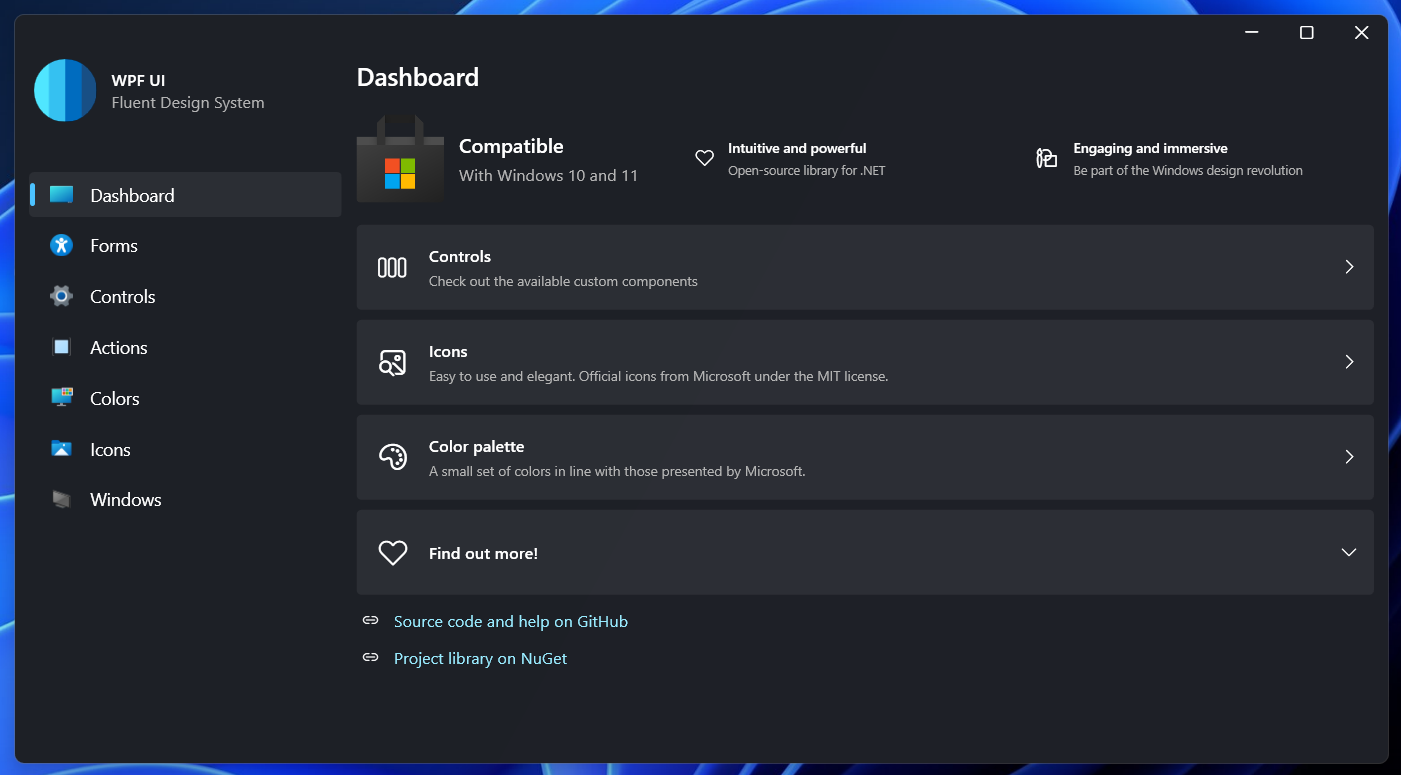
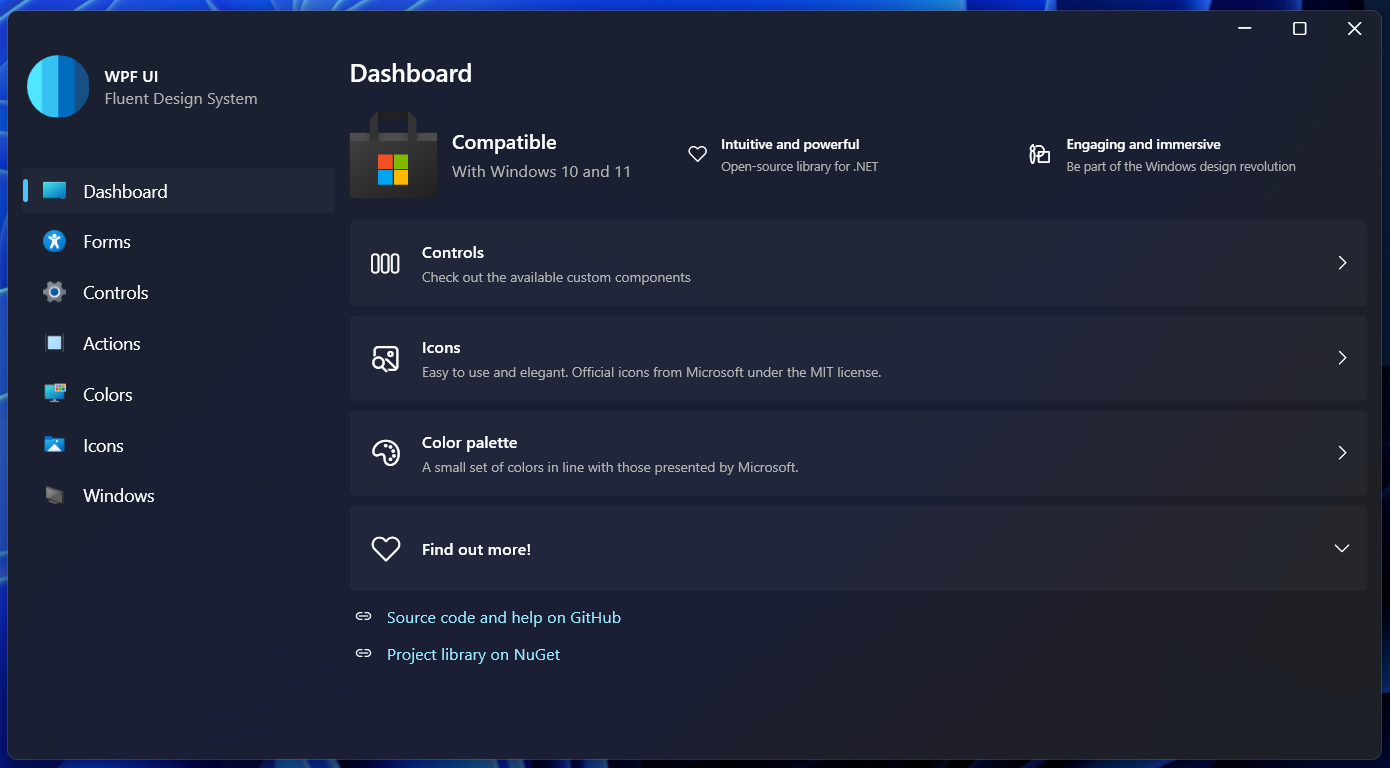
Update screenshots [-ci skip]

diff --git a/WPFUI/Styles/Controls/Window.xaml b/WPFUI/Styles/Controls/Window.xaml
@@ -11,6 +11,8 @@
         <Setter Property="Width" Value="1100" />
         <Setter Property="MinWidth" Value="900" />
         <Setter Property="BorderThickness" Value="0" />
+        <Setter Property="Margin" Value="0" />
+        <Setter Property="Padding" Value="0" />
         <Setter Property="Background" Value="{DynamicResource UiBrushBackground}" />
         <Setter Property="Control.Foreground" Value="{DynamicResource UiBrushForeground}" />
         <Setter Property="Control.FontSize" Value="13" />

diff --git a/WPFUI/Common/SnapLayout.cs b/WPFUI/Common/SnapLayout.cs
@@ -44,21 +44,22 @@ namespace WPFUI.Common
             {
                 case Input.WM_NCLBUTTONDOWN:
                     RaiseButtonClick();
-                    handled = true;
 
-                    return new IntPtr((int)HT.MAXBUTTON);
+                    handled = true;
                     break;
 
                 case Input.WM_NCMOUSEMOVE:
+
+                    //_button.RaiseEvent(new MouseEventArgs(null, (int)DateTime.Now.Subtract(new DateTime(1970, 1, 1)).TotalSeconds));
+
                     //_button.IsMouseOver = true;
                     handled = true;
-
                     break;
 
                 case Input.WM_NCMOUSELEAVE:
+                    //_button.RaiseEvent(new RoutedEventArgs(Button.MouseLeaveEvent, _button));
 
-                    //handled = true;
-
+                    handled = true;
                     break;
 
                 case Input.WM_NCHITTEST:
